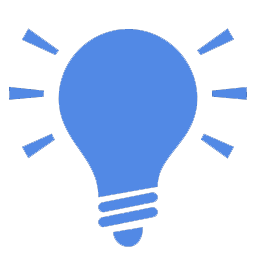
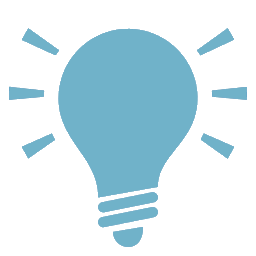
Amélioration des couleurs

diff --git a/qml/Components/TiStyle.qml b/qml/Components/TiStyle.qml
@@ -17,43 +17,44 @@ import QtQuick 2.15
  *   Le site suivant compare 9 différents outils de donstruction de palette
  *   @see https://www.webfx.com/blog/web-design/material-design-color-generators/
  *
- *   Le site le plus connu: MaterlaiPalette.com
+ *   Le site le plus connu: https://materialPalette.com
  *
  */
 Item{
 
     // Surface
-    /*
-     * Surface colors define contained areas, distinguishing them from a background and other on-screen elements.
-     * Surface = couleur de fond
-     * Surface container = couleur de fond des outils en haut et en bas
-    */
+    // Surface colors define contained areas, distinguishing them from a background and other on-screen elements.
+    // Surface = couleur de fond
+    // Surface container = couleur de fond des outils en haut et en bas
+    readonly property color surfaceBackgroundColor: "#f7f7f7"       // gris très clair pour la surface de fond
+    readonly property color surfaceContainerColor: "#dcedc8"        // vert très pale pour le container de fond
 
-    readonly property color surfaceBackgroundColor: "#f7f7f7"
-    readonly property color surfaceContainerColor: "#dcedc8"
-
-    readonly property color primaryForegroundColor: "#8bc34a"       // green
-    readonly property color primaryBackgroundColor: "#f7f7f7"
-
-    readonly property color secondaryForegroundColor: "#689f38"     // darkgreen
-    readonly property color secondaryBackgroundColor: "lightblue"
+    // Primary: Zones & boutons
+    readonly property color primaryForegroundColor: "#8bc34a"       // vert pour les boutons
+    readonly property color primaryBackgroundColor: "#8bc34a"       // vert pour les zones standard (darker=#6ca64f)
+    readonly property color trashcanBackgroundColor: "lightgrey"    // #d3d3d3 gris pour les zones corbeille  (darker=#c2c6c9)
+    readonly property color suggestionBackgroundColor: "lightblue"  // #add8e6 bleu pour les zones de suggestions (darker=#70b1c9)
 
     // Chips
-        readonly property color tertiaryForegroundColor: "#448aff"
-    readonly property color tertiaryBackgroundColor: "lightblue"
-    readonly property color tertiaryTextColor: "slateblue"
+    readonly property color secondaryForegroundColor: "#689f38"     // darkgreen : fond des chips + simplechips
+    readonly property color secondaryBackgroundColor: "lightblue"   // Textes des SimpleChips
 
+    // UNUSED
+    // readonly property color tertiaryForegroundColor: "#448aff"
+    // readonly property color tertiaryBackgroundColor: "lightblue"
+
+    // Boutons
     readonly property color buttonIdleColor: primaryForegroundColor
     readonly property color buttonHoveredColor: Qt.lighter(buttonIdleColor, 1.2)
     readonly property color buttonPressedColor: Qt.darker(buttonIdleColor, 1.3)
 
-    readonly property color primaryTextColor:   "#212121"       // gris foncé
-    readonly property color secondaryTextColor: "#757575"       // gris moyen
-    readonly property color dividerTextColor:   "#BDBDBD"       // gris très clair
-
-    readonly property color accentTextColor: "firebrick"        // images toBeSaved
-
-    readonly property color highlightBackgroundColor: "lightgrey"
+    // Textes
+    readonly property color primaryTextColor:   "#212121"          // gris foncé      : Listview + toolbar
+    readonly property color secondaryTextColor: "#757575"          // gris moyen      : Répertoire dans la toolbar
+    readonly property color tertiaryTextColor:  "#BDBDBD"          // gris très clair : chips + annotations dans les settings
+    //TODO : améliorer les couleurs suivantes:
+    readonly property color accentTextColor: "firebrick"           // filenames toBeSaved
+    readonly property color highlightBackgroundColor: "lightgrey"  // filename sélectionné
 }
 
 

diff --git a/qml/main.qml b/qml/main.qml
@@ -21,7 +21,7 @@ Window {
     // dimensions minimales
     minimumHeight: 640
     minimumWidth: 1200
-    color: TiStyle.primaryBackgroundColor
+    color: TiStyle.surfaceBackgroundColor
 
     // ----------------------------------------------------------------
     // Les signaux
@@ -175,60 +175,17 @@ Window {
                     Layout.rightMargin: 40
                     Layout.fillHeight: true
                 }
-                /*
-                // TODO : A séparer dans ZoneGeoloc
                 Zone{
                     Layout.rightMargin: 40
                     Layout.fillHeight: true
-                    iconZone: "qrc:/Images/world.png"
-                    txtZone: qsTr("Géolocalisation")
-
-                    ColumnLayout{
-                        //spacing: 8
-                        Chips {
-                            content: mapTab.photoLatitude.toFixed(4) + " Lat "  + ((mapTab.photoLatitude>0) ? "N" : "S")
-                            Layout.topMargin: 10
-                            Layout.leftMargin: 20
-                            editable: false
-                            deletable: true
-                            visible: (mapTab.photoLatitude != 0)
-                        }
-                        Chips {
-                            content: mapTab.photoLongitude.toFixed(4) + " Long " + ((mapTab.photoLongitude>0) ? "E" : "W")
-                            Layout.topMargin: 10
-                            Layout.leftMargin: 20
-                            editable: false
-                            deletable: true
-                            visible: (mapTab.photoLongitude != 0)
-                        }
-                        Chips {
-                            content: tabbedPage.selectedData.city
-                            Layout.topMargin: 10
-                            Layout.leftMargin: 20
-                            editable: false
-                            deletable: true
-                        }
-                        Chips {
-                            content: tabbedPage.selectedData.country
-                            Layout.topMargin: 10
-                            Layout.leftMargin: 20
-                            editable: false
-                            deletable: true
-                        }
-                    }
-                }
-                */
-                Zone{
-                    Layout.rightMargin: 40
-                    Layout.fillHeight: true
-                    color: "lightblue"
+                    color: TiStyle.suggestionBackgroundColor
                     iconZone: "qrc:/Images/suggestion.png"
                     txtZone: qsTr("Suggestions basées sur la position GPS de la photo, grace au service gratuit et opensource OpenStreetMap.\nLimité à 100 requètes par jour.")
                 }
                 Zone{
                     Layout.rightMargin: 40
                     Layout.fillHeight: true
-                    color: "lightgrey"
+                    color: TiStyle.trashcanBackgroundColor
                     iconZone: "qrc:/Images/trashcan.png"
                 }
             }

diff --git a/qml/Vues/TiMapToolBarForm.ui.qml b/qml/Vues/TiMapToolBarForm.ui.qml
@@ -9,6 +9,8 @@ Item {
     property alias bt_apply_pos: bt_apply_pos
     property alias bt_clear_coords: bt_clear_pos
     property alias slider_radius: slider_radius
+    property alias bt_get_info: bt_get_info
+
     height: bt_save_pos.height + 20
 
     TiButton {
@@ -54,6 +56,14 @@ Item {
         Layout.alignment: Qt.AlignRight | Qt.AlignVCenter
         to: 2000 // unité = 1 mètre
         anchors.left: bt_apply_pos.right
+        anchors.leftMargin: 20
+        anchors.verticalCenter: parent.verticalCenter
+    }
+
+    TiButton {
+        id: bt_get_info
+        text: qsTr("Get Info")
+        anchors.left: slider_radius.right
         anchors.leftMargin: 20
         anchors.verticalCenter: parent.verticalCenter
     }

diff --git a/qml/Controllers/TiMapToolBar.qml b/qml/Controllers/TiMapToolBar.qml
@@ -26,6 +26,10 @@ TiMapToolBarForm {
         slider_radius.enabled = true;
     }
 
+    bt_get_info.onClicked: {
+        // DEV: on recupere des infos à partir des coords GPS
+    }
+
     bt_clear_coords.onClicked: {
         // On efface les coordonnées GPS des photos affichées
         window.setSelectedItemCoords(0,0);
@@ -34,8 +38,10 @@ TiMapToolBarForm {
         bt_clear_coords.enabled = false;
         slider_radius.enabled = false;
         slider_radius.value = 0;
-        // On efface la copie locale QML de ces corodonnées...
+        // On efface la copie locale QML de ces coordonnées...
         mapTab.photoLatitude = 0;
         mapTab.photoLongitude = 0;
     }
+
+
 }

diff --git a/qml/Components/Zone.qml b/qml/Components/Zone.qml
@@ -7,7 +7,7 @@ Rectangle {
     property string txtZone
 
     radius: 16
-    color: TiStyle.primaryForegroundColor
+    color: TiStyle.primaryBackgroundColor
     implicitHeight: 300    // Note: Mettre Layout.fillHeight dans le parent pour bien occuper tout l'espace
     implicitWidth: 380
     property bool dropable: true
@@ -25,7 +25,6 @@ Rectangle {
     // Texte explicatif (optionnel)
     Text{
         color: Qt.darker(parent.color, 1.3)
-//        color: Qt.lighter(parent.color, 1.1)
         text: txtZone
         font.weight: Font.Thin
         font.pointSize: 16

diff --git a/qml/Components/Chips.qml b/qml/Components/Chips.qml
@@ -42,7 +42,7 @@ Rectangle {
         anchors.topMargin: 4
         text: content
         font.pixelSize: 14
-        color: TiStyle.secondaryBackgroundColor
+        color: TiStyle.tertiaryTextColor
         // Positionnement du texte
         verticalAlignment: Text.AlignVCenter
         horizontalAlignment: Text.AlignHCenter

diff --git a/qml/Components/TiPhotoTags.qml b/qml/Components/TiPhotoTags.qml
@@ -16,7 +16,7 @@ GridLayout {
         Layout.fillWidth: true
         Layout.fillHeight: true
         Layout.margins: 10
-        iconZone: "qrc:/Images/camera.png"
+        iconZone: "qrc:/Images/photo.png"
         txtZone: qsTr("Photo")
     }
 
